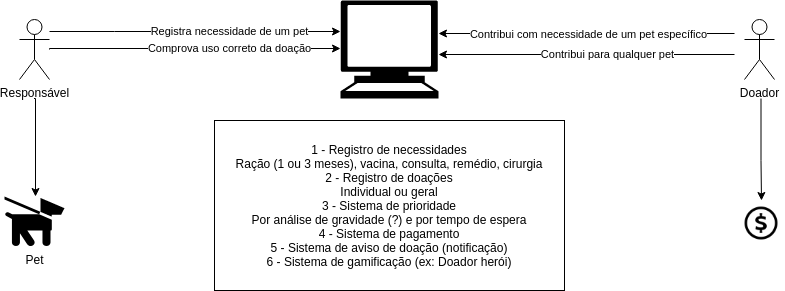
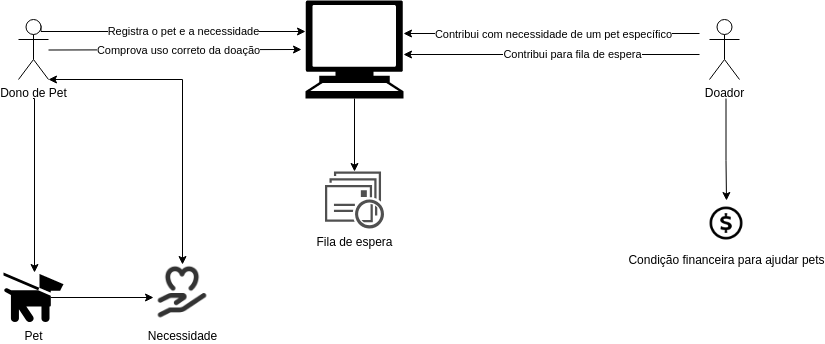
Adicionando novos documentos

diff --git a/docs/base/brainstorm.md b/docs/base/brainstorm.md
@@ -1,0 +1,75 @@
+# Brainstorm
+### Histórico de revisão
+Data | Versão | Descrição | Autor |
+--------- | ------ | ------------ | --------- |
+10/09/2020 | 0.1 | Criação do documento | Ricardo Canela, Fernando Aguilar  |
+
+## 1. Introdução
+O brainstorm é uma técnica de elicitação de requisitos que consiste em reunir _steakholders_ e discutir sobre tópicos do projeto. No brainstorm é incentivado todo tipo de ideia que possa contribuir com o projeto e são evitadas críticas para permitir que todos se sintam a vontade de propor novas ideias.
+
+
+## 2. Metodologia
+A equipe se reuniu por video chamada por um período de 3 horas para debater ideias sobre possibilidades de projeto e o Ricardo Canela foi o moderador, direcionando a equipe com questões e transcrevendo as respostas para o documento.
+
+## Brainstorm v1
+
+#### Quais são as possibilidades de projetos que podemos trabalhar, levando em consideração nossos limites de tempo (4 meses de projeto) e recursos (3 pessoas) para a matéria de Desenho e Arquitetura de Software?
+
+Voluntariados 
+- Suporte Psicologico / social  
+- Limpeza pública  
+- Pessoas com deficiencia / idosos/ moradores de rua /  hospitalizados
+- Mobilidade urbana
+- Reforço escolar  
+- Ajuda a animais com necessidades
+- Serviço braçal (limpeza de casa, jardinagem) 
+
+#### Dentre as possibilidades levantadas, o projeto que mais chamou nossa atenção foi a de Suporte a animais com necessidades. Como poderíamos dar suporte a esses animais?
+
+Tipos de suporte a animais
+- Alimentação 
+- Vacinas 
+- Remédios 
+- Veterinário 
+- Cirurgia (Castração) 
+- Doação financeira para suprir demandas de saúde
+- Levar para passear (aumenta o escopo?) 
+- Compartilhar necessidades entre redes sociais 
+- Transparência de que a doação está sendo feita de forma correta
+
+#### Observando as formas elicitadas de como dar suporte a esses animais, qual seria o objetivo principal do projeto?
+
+Desenvolver um projeto para melhorar a saúde e qualidade de vida de pets através de um sistema capaz de interligar donos de pets (podendo ser canis, ONGs ou donos comuns sem capacidade financeira) a amantes de pets que possuem condições para realizar doações financeiras.
+
+#### Como se daria o processo de doação financeira de amantes de pets para donos de pets?
+
+Um dono deverá se registrar no sistema (informando cpf para evitar fraudes), registrar um ou mais pets e inserir a demanda que o pet está tendo, podendo ser custos de veterinário, remédios, vacinas, cirurgias ou ração.  
+O amante de pets teria a opção de doar para um pet específico ou colaborar com uma quantia (podendo ser uma vez ou mensalmente) para dar suporte a todos os pets necessitados que estarão na fila de espera para receber a doação.  
+Assim que a publicação da demanda do pet atingir o valor estabelecido, o dono receberá o suporte financeiro e terá que comprovar o correto uso do valor recebido por meio de nota fiscal.
+
+#### Ideias para uma possível melhoria do sistema no futuro:
+
+- Ter outras contribuições sem ser apenas a financeira
+- Poder gerar renda através de amantes de pets assistindo anúncios que seriam doados para a fila de espera
+- Poder incluir participação de veterinários que queiram ajudar na melhoria da saúde de pets com necessidades
+- Poder incluir atividades e mutirões para dar suporte a animais de ruas para quem quer ajudar e não pode fazer de forma financeira
+
+## Requisitos elicitados
+
+| ID | Descrição |
+| --- | --- |
+| BS01 | O dono do pet deve criar uma conta e realizar login |
+| BS02 | O doador deve criar uma conta e realizar login |
+| BS03 | O dono do pet deve registrar um ou mais pets |
+| BS04 | O dono do pet pode criar um perfil de apresentação do pet |
+| BS05 | O dono do pet deve publicar uma ou mais necessidades para cada pet |
+| BS06 | O doador pode ver uma lista de pets com necessidades |
+| BS07 | O doador pode fazer a doação para um pet selecionado da lista |
+| BS08 | O doador pode fazer uma doação única ou mensal para contribuir com a fila de espera |
+| BS09 | O dono do pet deve ser notificado e indicar confirmação quando a publicação da necessidade do pet atingir o valor requisitado |
+| BS10 | O sistema deve depositar o dinheiro na conta do dono do pet |
+| BS11 | O dono do pet deverá inserir uma nota fiscal indicando correto uso do dinheiro |
+
+## Conclusão
+
+Através da técnica de Brainstorm, conseguimos elicitar os primeiros requisitos do projeto.

diff --git a/docs/base/lexico.md b/docs/base/lexico.md
@@ -1,0 +1,116 @@
+# Lexico
+### Histórico de revisão
+Data | Versão | Descrição | Autor |
+--------- | ------ | ------------ | --------- |
+10/09/2020 | 0.1 | Criação do documento | Ricardo Lima Canela, Fernando Aguilar |
+
+## 1. Introdução
+A técnica LAL (Léxico Ampliado da Linguagem) é utilizada para simplificar a comunicação entre os _steakholders_, onde os termos, palavras e frases do projeto são definidas e explicadas. Essa técnica procura identificar as palavras ou frases próprias do contexto do projeto para que não existam dúvidas sobre os termos utilizados.
+
+## 2. Metodologia
+Aqui estão presentes alguns termos, palavras e frases recorrentes no projeto, classificados como verbo ou objeto. Existe também uma descrição da noção, que é seu significado, e seu impacto no projeto. Existe uma tabela para cada léxico contendo o rastro de qual requisito o originou.
+
+| Tag | Título |
+| --- | --- |
+| Classificação | -- |
+| Noção | -- |
+| Impacto | -- |
+| Rastro | -- |
+| Data | -- |
+
+## Lexicos v1
+
+
+### Dono de pet
+
+| L01 | Dono de pet |
+| --- | --- |
+| Classificação | objeto |
+| Noção | Pessoa, organização ou canil responsável por um ou mais pets |
+| Impacto | Entidade responsável por publicar necessidade de pets, receber e comprovar bom uso do dinheiro doado |
+| Rastro | RF  01 |
+| Data | 10/09/2020 |
+
+### Doador
+
+| L02 | Doador |
+| --- | --- |
+| Classificação | objeto |
+| Noção | Pessoa que pode auxiliar financeiramente na saúde de pets |
+| Impacto | Entidade responsável por realizar doações financeiras para pets necessitados |
+| Rastro | RF  02 |
+| Data | 10/09/2020 |
+
+### Pet
+
+| L02 | Pet |
+| --- | --- |
+| Classificação | objeto |
+| Noção | Animal com necessidade de suporte financeiro para cuidar da saúde. Inicialmente o projeto destina-se a cães e gatos |
+| Impacto | Animal que terá a necessidade publicada para receber doação financeira |
+| Rastro | RF  01 |
+| Data | 10/09/2020 |
+
+### Necessidade
+
+| L02 | Pet |
+| --- | --- |
+| Classificação | objeto |
+| Noção | Demanda de saúde de algum pet podendo ser: Ração, consulta veterinária, remédio, vacina ou cirurgia |
+| Impacto | Necessidade que receberá doação financeira para ser suprida |
+| Rastro | RF  05 |
+| Data | 10/09/2020 |
+
+### Doação específica
+
+| L02 | Doação específica |
+| --- | --- |
+| Classificação | objeto |
+| Noção | Doação financeira feita por Doador para um Pet específico escolhido pelo próprio Doador |
+| Impacto | Acelera o recebimento financeiro para uma necessidade específica de um pet |
+| Rastro | RF  07 |
+| Data | 10/09/2020 |
+
+### Doação para a fila de espera
+
+| L02 | Doação para a fila de espera |
+| --- | --- |
+| Classificação | objeto |
+| Noção | Doação financeira feita por Doador para a fila de espera de necessidades |
+| Impacto | Doadores podem não fazer doação específica e optar por contribuir com a fila de espera |
+| Rastro | RF  08 |
+| Data | 10/09/2020 |
+
+### Fila de espera
+
+| L02 | Fila de espera |
+| --- | --- |
+| Classificação | objeto |
+| Noção | Fila de espera de necessidades de pets por ordem de criação |
+| Impacto | Ao Doadores fazerem doações  |
+| Rastro | RF  08 |
+| Data | 10/09/2020 |
+
+### Cadastrar
+
+| L02 | Cadastrar |
+| --- | --- |
+| Classificação | verbo |
+| Noção | registrar, criar conta |
+| Impacto | O Doador e o Dono de Pet devem realizar cadastro para utilizar as funcionalidades do sistema |
+| Rastro | RF  01 |
+| Data | 10/09/2020 |
+
+### Logar
+
+| L02 | Logar |
+| --- | --- |
+| Classificação | verbo |
+| Noção | Fazer login, entrar na conta |
+| Impacto | O Doador e o Dono de Pet devem realizar login para utilizar as funcionalidades do sistema |
+| Rastro | RF  01 |
+| Data | 10/09/2020 |
+
+
+## Conclusão
+Utilizando a técnica do Léxico Ampliado da Linguagem foi possível entender e explicar melhor os termos utilizados no projeto. Pessoas de fora do projeto poderão ter uma melhor compreensão das palavras importantes e poderão também utilizar os rastros para ver outros documentos.

diff --git a/docs/base/moscow.md b/docs/base/moscow.md
@@ -1,0 +1,26 @@
+# Product Backlog
+### Histórico de revisão
+Data | Versão | Descrição | Autor |
+--------- | ------ | ------------ | --------- |
+10/09/2020 | 0.1 | Criação do documento | Ricardo Lima Canela |
+
+
+## 1. Introdução
+Este documento foi desenvolvido para a disciplina de Desenho e Arquitetura de Software, da Universidade de Brasília, com o intuito de priorizar as funcionalidades do projeto PetCare.
+
+## 2. Objetivo
+O documento presente visa demonstrar como será realizado a priorizaçãodos requisitos referentes ao projeto PetCare, sendo esses requisitos o resultado dos processos de elicitação aplicados. As classificações de prioridade Moscow estão representadas em cada um dos requisitos funcionais na seção _Product Backlog_
+
+## 3. MoSCoW
+Os requisitos listados abaixo foram obtidos a partir das técnicas de elicitação apresentadas anteriormente.
+
+_Must_: O que acontece se esse requisito não for atendido? ”Se a resposta for cancelar o projeto então deve se usar o must, não é possível entregar na data prevista sem isso, Inseguro sem isso.
+
+
+_Should_: Importante, mas não vital, pode ser doloroso deixar de fora, mas a solução ainda é viável.
+
+
+_Could_: Os requisitos rotulados como Could são desejáveis, mas não necessários, e podem melhorar a experiência do usuário ou a satisfação do cliente por um pequeno custo de desenvolvimento. Estes serão tipicamente incluídos se o tempo e os recursos permitirem.
+
+
+_Would_: Requisitos rotulados como Would terão que ser acordados pelas partes interessadas como os itens menos críticos e de menor retorno, ou não são apropriados naquele momento. Como resultado, os requisitos não serão planejados no cronograma do próximo timebox de entrega. Os requisitos não serão eliminados ou reconsiderados para inclusão em um timebox posterior.

diff --git a/docs/base/product-backlog.md b/docs/base/product-backlog.md
@@ -1,0 +1,24 @@
+# Product Backlog
+### Histórico de revisão
+Data | Versão | Descrição | Autor |
+--------- | ------ | ------------ | --------- |
+10/09/2020 | 0.1 | Criação do documento | Ricardo Canela, Ramon Sales, Fernando Aguilar |
+
+## 1. Introdução
+Esse documento tem a finalidade de mostrar o Product Backlog do projeto PetCare 
+
+## Product Backlog
+
+| ID | Eu, como | Desejo | Para | Prioridade |
+| --- | --- |
+| RF 01 | Dono de pet | Realizar cadastro e login no sistema | Utilizar as funcionalidades | Must |
+| RF 02 | Doador | Realizar cadastro e login no sistema | Utilizar as funcionalidades | Must |
+| RF 03 | Dono de Pet | Registrar um ou mais pets | Poder publicar uma necessidade do pet | Must |
+| RF 04 | Dono de Pet | Criar um perfil de apresentação do pet | Poder apresentar o Pet no sistema | Could |
+| RF 05 | Dono de Pet | Publicar uma ou mais necessidades para cada pet | Poder receber suporte financeiro | Must |
+| RF 06 | Doador | Ver uma lista de pets com necessidades | Poder escolher um bichinho pra ajudar | Should |
+| RF 07 | Doador | Fazer a doação específica para um pet selecionado da lista | Ajudar um bichinho | Should |
+| RF 08 | Doador | Fazer uma doação única ou mensal no sistema para contribuir com a fila de espera | Ajudar algum(ns) bichinho(s) | Must |
+| RF 09 | Dono de Pet | Ser notificado e indicar confirmação quando a publicação da necessidade do pet atingir o valor requisitado | Resgatar o dinheiro e tratar a necessidade do Pet | Must |
+| RF 10 | Dono de Pet | Resgatar o dinheiro atingido pela publicação | Tratar a necessidade do Pet | Must |
+| RF 11 | Dono de Pet | Inserir uma nota fiscal após o tratamento da necessidade | Comprovar o correto uso do dinheiro | Could |

diff --git a/docs/base/rich-picture.md b/docs/base/rich-picture.md
@@ -2,7 +2,7 @@
 ### Histórico de revisão
 Data | Versão | Descrição | Autor |
 --------- | ------ | ------------ | --------- |
-09/09/2020 | 0.1 | Criação do documento | Ricardo Lima Canela |
+09/09/2020 | 0.1 | Criação do documento | Ricardo Lima Canela, Fernando Aguilar |
 
 ## 1. Introdução
 O Rich Picture é um artefato usado para entender de forma visual, o fluxo e a complexidade de uma situação. Geralmente usado na fase de pré-rastreabilidade para analisar problemas e expressar ideias.
